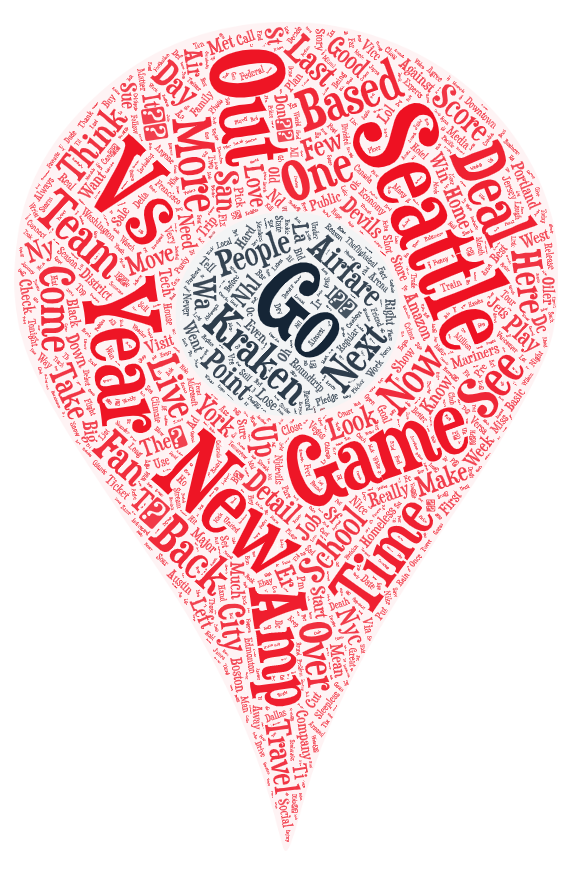
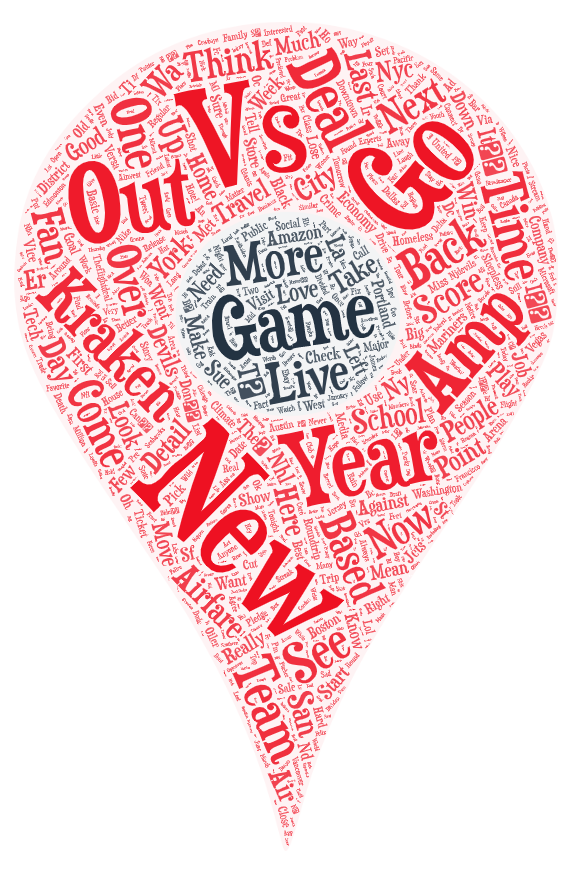
update readme

diff --git a/README.md b/README.md
@@ -2,4 +2,65 @@
 
 Narrative:
 
-The topic is...
+  The topic I decided to research is "what do people living in other cities
+tweet about Seattle"? "Are the tweets different between Seattle residents and
+others"? The search term I decided to go with was simply "Seattle". Four cities
+in total are picked: New York, Los Angeles, Chicago, and Seattle There are two
+major reasons I wanted to do this. First, I wanted to know what people from
+other cities talk about Seattle on the internet; second, what's the difference
+in topics between people living in Seattle vs outside of Seattle?
+
+  Comparing the work clouds, the 5 most similar words or phrases are: "Go",
+"Out", "New Year", "Team", and "Time". For each city except Seattle, local names
+and regions appeared a lot. For example, in the New York Word Cloud, "New" and
+"York" appeared many times. One interesting observation is: "Portland" appeared
+in all of the search results. Other than that, words like "Trip", "Play", and
+"Travel" also appeared often.
+
+  The time at which these tweets were posted had a strong influence on what the
+content would be. Since Twitter only allows users to collect tweets within 7
+days, the results are arguably more predictable. For example, the Chinese New
+Year just passed when the search scripts were running, and many of the results
+had something to do with the Lunar New Year. The reason "Go", "Team", and "play"
+appeared in the result was likely because of the ice hockey games played
+recently and those that will be played soon. This is especially the case for
+New York because the New York Rangers lost to Seattle Kraken in November, and
+the 2 teams are about to play again.
+![Match result](/img/Kraken_Rangers-Nov.PNG)
+![Match schedule](/img/Kraken_Rangers-Feb.PNG)
+
+  The search strategy could be improved in many ways; the one that would have
+the most significant impact would be to add more search terms, narrowing down
+the search radius. The result of the performed search is too generic, there are
+a lot of words that do not imply anything meaningful. If this research could
+be done again, I would pick a critical time to research a special topic. One
+example is: "why do people in other cities tweet about Seattle during the New
+Year"? Another would be: "what do people in New York say about Seattle after
+a hockey game between the 2 teams"?
+
+  The result really surprised me, because I did not expect that the search time
+would have so much impact on the topics. I had expected the most frequent words
+to be travel-related, although this is somewhat true, other words appeared even
+more frequently. First, I did not expect so many people would celebrate Chinese
+New Year in the US online; second, I did not expect people from the cities to be
+the most enthusiastic about their competitive sports teams. Additionally, people
+from other places in the US seem to associate Seattle and Portland together
+very much. Understandably, these 2 cities are the largest in the
+Pacific-Northwest region, however, people seem to link them together so much
+so that they appear on random tweets about one of them.
+
+Word Clouds
+Seattle:
+![Seattle](/img/twsearch-result-SE.csv)
+New York:
+![New York](/img/twsearch-result-NY.csv)
+Chicago:
+![Chicago](/img/twsearch-result-CH.csv)
+Los Angeles:
+![Los Angeles](/img/twsearch-result-LA.csv)
+
+Search Results
+[Seattle](/assets/twsearch-result-SE.csv)
+[New York](/assets/twsearch-result-NY.csv)
+[Chicago](/assets/twsearch-result-CH.csv)
+[Los Angeles](/assets/twsearch-result-LA.csv)
